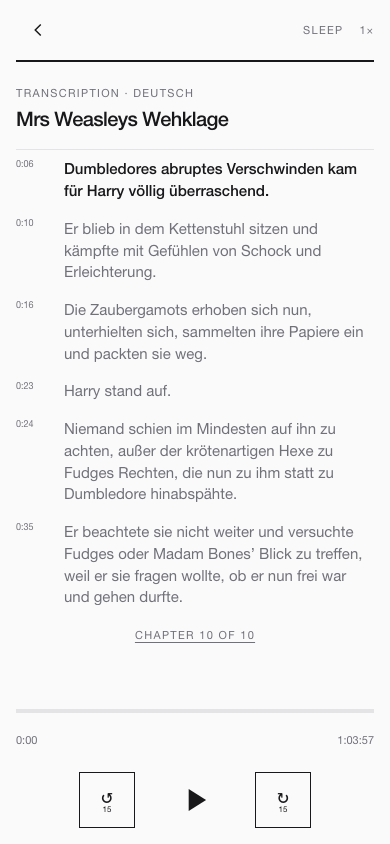
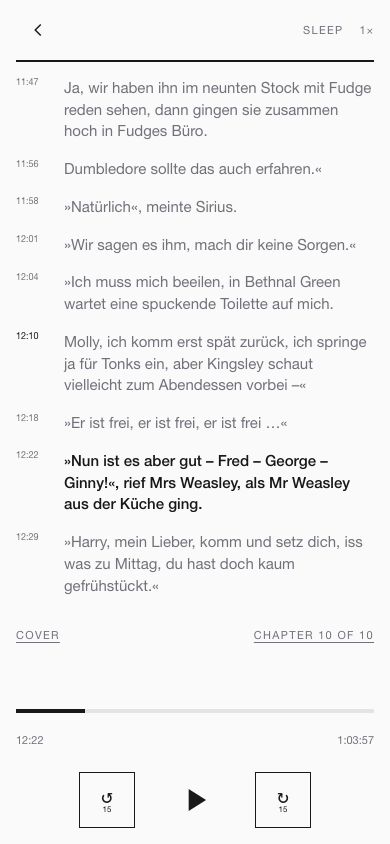
Add transcript cover switch and lower cue anchor

diff --git a/clam-web/src/pages/Play.tsx b/clam-web/src/pages/Play.tsx
@@ -30,6 +30,7 @@ export function Play({ book, search }: PlayProps) {
   const seekTimer = useRef<number | null>(null)
   const dialogList = useRef<HTMLDivElement>(null)
   const currentCue = useRef<HTMLParagraphElement>(null)
+  const textOverlay = useRef<HTMLDivElement>(null)
 
   const chapterParam = Number(search.get('chapter'))
   const autoplay = search.get('autoplay') === '1'
@@ -79,7 +80,14 @@ export function Play({ book, search }: PlayProps) {
 
   useEffect(() => {
     if (!showDescription || !transcript) return
-    currentCue.current?.scrollIntoView({ block: 'center' })
+    const overlay = textOverlay.current
+    const cue = currentCue.current
+    if (!overlay || !cue) return
+    const frame = window.requestAnimationFrame(() => {
+      const cueTop = cue.getBoundingClientRect().top - overlay.getBoundingClientRect().top + overlay.scrollTop
+      overlay.scrollTop = Math.max(0, cueTop - overlay.clientHeight * 0.7)
+    })
+    return () => window.cancelAnimationFrame(frame)
   }, [showDescription, transcript, currentCueIndex])
   const speedLabel = player.speed === 1 ? '1×' : `${player.speed}×`
   const sleepSeconds = Math.max(0, Math.ceil(player.sleepRemaining || 0))
@@ -88,6 +96,7 @@ export function Play({ book, search }: PlayProps) {
     : player.sleep.kind === 'chapter'
       ? 'End chapter'
       : `${Math.floor(sleepSeconds / 60)}:${String(sleepSeconds % 60).padStart(2, '0')}`
+  const textToggleLabel = showDescription ? 'Cover' : chapter?.subtitleUrl ? 'Transcript' : 'Description'
 
   function setSeeking(value: boolean) {
     player.setSeeking(value)
@@ -125,18 +134,7 @@ export function Play({ book, search }: PlayProps) {
       </header>
 
       <div className="play-stage relative flex min-h-0 flex-1 flex-col justify-center pt-6">
-        <div
-          className="relative cursor-pointer"
-          role="button"
-          tabIndex={0}
-          aria-label={showDescription ? 'Show cover' : chapter?.subtitleUrl ? 'Show transcription' : 'Show book description'}
-          onClick={() => setShowDescription((value) => !value)}
-          onKeyDown={(event) => {
-            if (event.key !== 'Enter' && event.key !== ' ') return
-            event.preventDefault()
-            setShowDescription((value) => !value)
-          }}
-        >
+        <div>
           <div className={`transition-opacity duration-200 ${showDescription ? 'invisible' : ''}`}>
             <div className="mx-auto w-[min(68vw,280px)] max-[680px]:w-[min(68vw,260px)]">
               <Cover book={book} />
@@ -150,10 +148,10 @@ export function Play({ book, search }: PlayProps) {
         </div>
 
         <div
+          ref={textOverlay}
           className={`play-text-overlay absolute inset-0 overflow-y-auto bg-paper transition-opacity duration-200 ${
             showDescription ? 'opacity-100' : 'pointer-events-none opacity-0'
           }`}
-          onClick={() => setShowDescription(false)}
         >
           {transcript ? (
             <div>
@@ -198,14 +196,24 @@ export function Play({ book, search }: PlayProps) {
         </div>
       </div>
 
-        <button
-          type="button"
-          className="micro mx-auto mt-2 block min-h-11 p-0 text-center uppercase tracking-[0.12em] underline underline-offset-[3px]"
-          onClick={() => setChaptersOpen(true)}
-          aria-label="Open chapter list"
-        >
-          {chapterLine}
-        </button>
+        <div className="mt-2 flex items-center justify-between gap-4">
+          <button
+            type="button"
+            className="min-h-11 p-0 text-micro uppercase tracking-[0.12em] text-muted underline underline-offset-[3px]"
+            aria-label={showDescription ? 'Show cover' : `Show ${textToggleLabel.toLowerCase()}`}
+            onClick={() => setShowDescription((value) => !value)}
+          >
+            {textToggleLabel}
+          </button>
+          <button
+            type="button"
+            className="min-h-11 p-0 text-right text-micro uppercase tracking-[0.12em] text-muted underline underline-offset-[3px]"
+            onClick={() => setChaptersOpen(true)}
+            aria-label="Open chapter list"
+          >
+            {chapterLine}
+          </button>
+        </div>
 
         <div className="mt-8">
           <div className="seek-wrap">

diff --git a/clam-web/README.md b/clam-web/README.md
@@ -206,8 +206,9 @@ clock; the EPUB is the transcript.
 The chapter-10 example currently has 565 sentence rows. Paragraph and dialogue
 boundaries are preserved; a single row never contains multiple sentences.
 
-In the Play screen, tapping the cover opens the transcript when the current
-chapter has a `subtitleUrl`. If it does not, the existing book description
-placeholder is shown. Cues are chapter-relative so they work with the continuous
+In the Play screen, the `Transcript` / `Cover` button at the left end of the
+chapter row switches the stage. Tapping the cover is no longer a control. If
+the current chapter has no `subtitleUrl`, the button says `Description` and opens
+the existing description placeholder. Cues are chapter-relative so they work with the continuous
 `book.m4b`; tapping a cue seeks the player. The service worker caches
 `/subtitle/` for offline use.

diff --git a/clam-web/ui/README.md b/clam-web/ui/README.md
@@ -20,4 +20,7 @@ paper/transcript-fallback-390-after.png
 night/transcript-390-after.png
 ```
 
-The current transcript sentence is ink; surrounding rows are muted grey.
+The current transcript sentence is ink and is anchored around 70% of the
+visible transcript height. Each row has a small timestamp button at the left;
+only that button seeks. The `Transcript` / `Cover` control is at the left end of
+the chapter row, with the chapter list at the right end.
